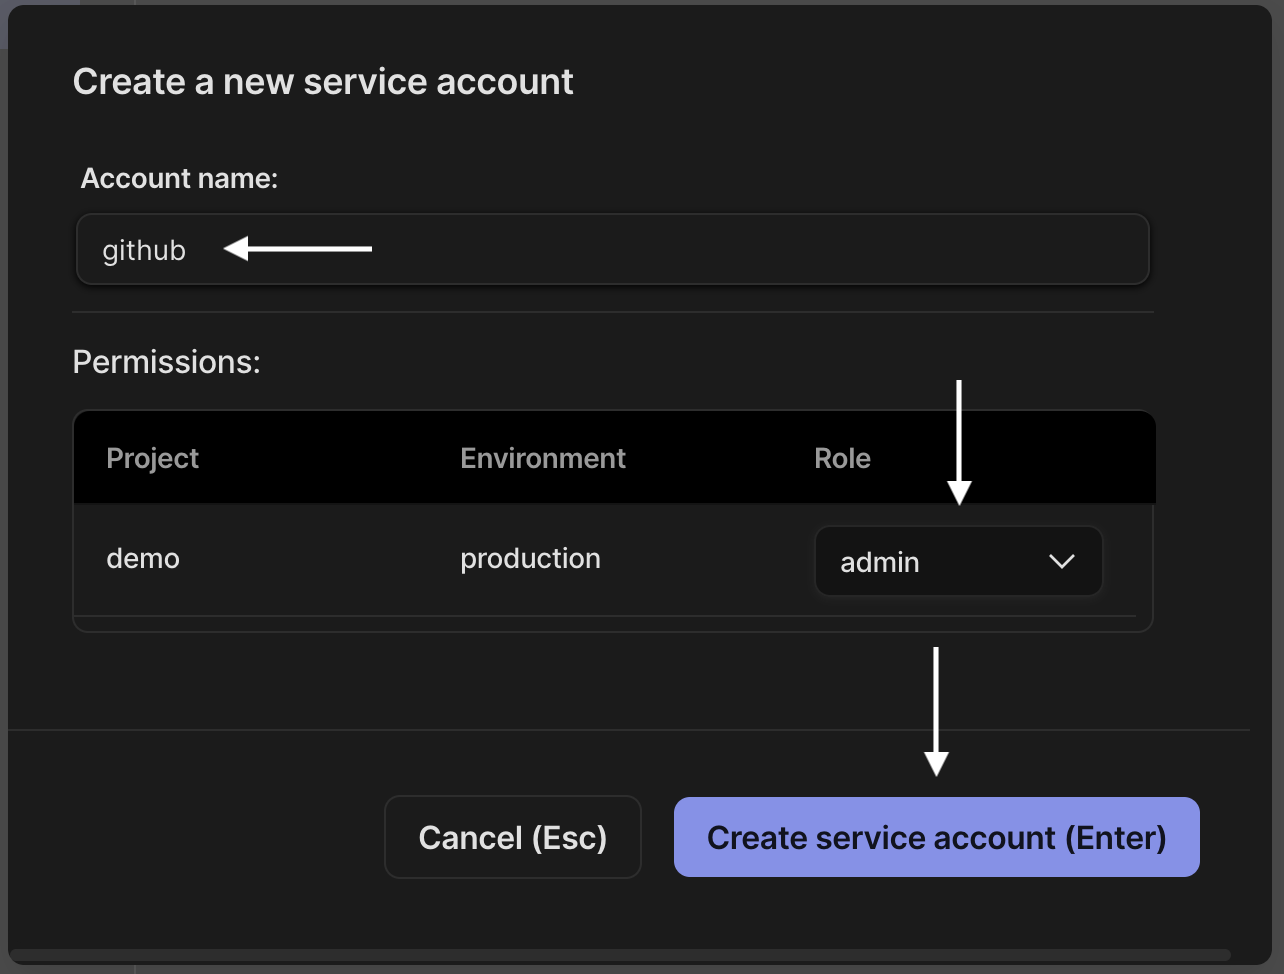
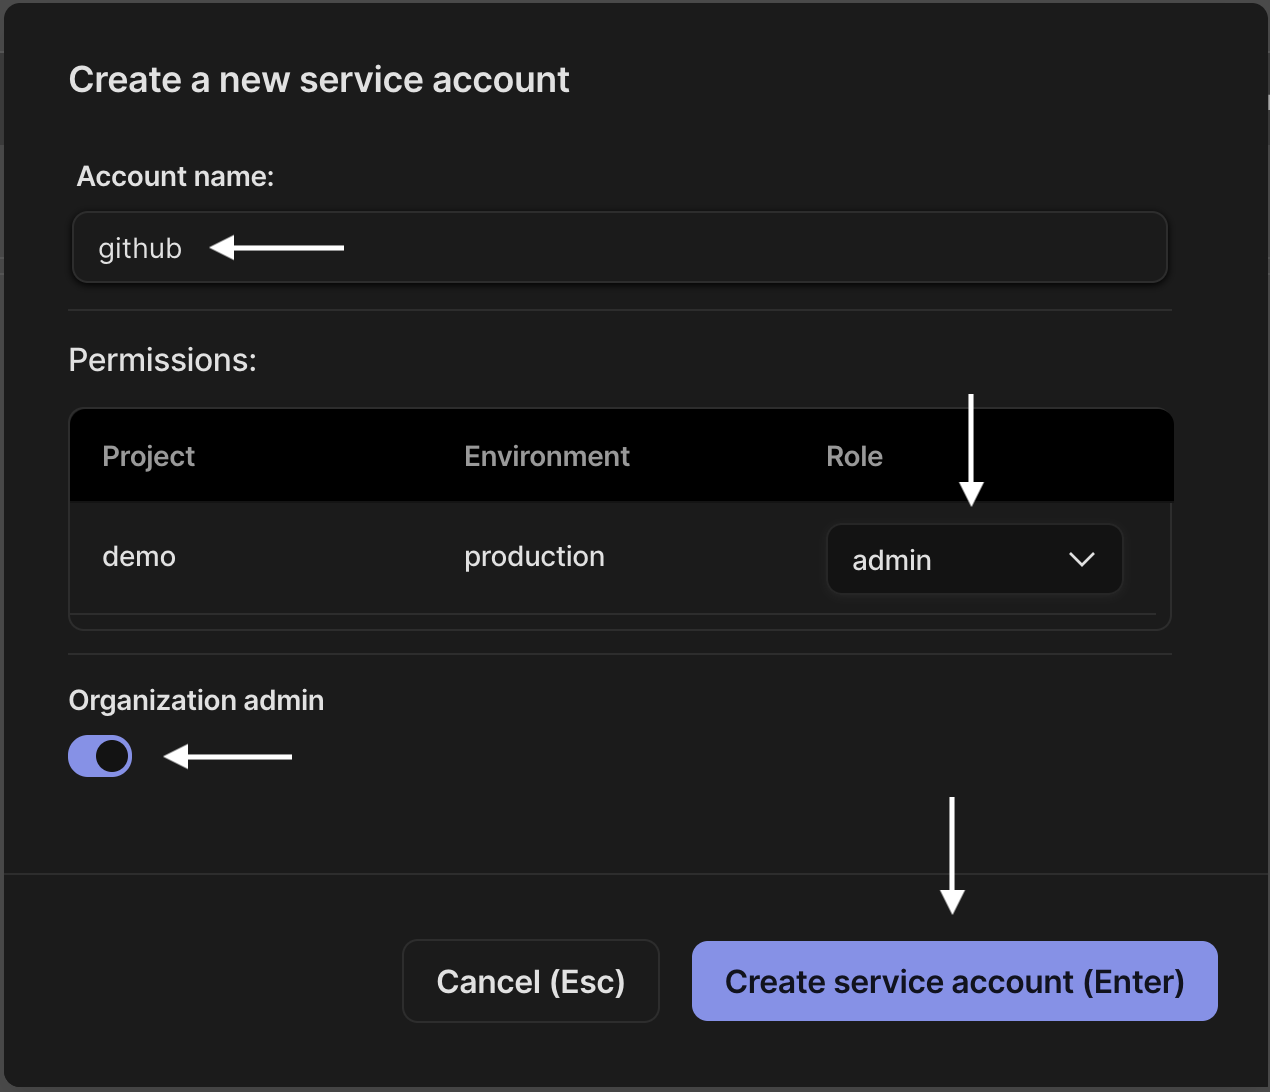
Changing the .gitinore and fixing the README to modify the step 3

diff --git a/README.md b/README.md
@@ -35,7 +35,7 @@ A Success/Error message containing the Based CLI output.
   
 <img src="https://raw.githubusercontent.com/atelier-saulx/based-deploy/main/steps/step2.png" width="800" />
 
-* Give a name to your service account and select a role to your project. You can choose between 'admin' and 'viewer' and then click on 'Create service account'.
+* Give a name to your service account and select a role to your project. You can choose between 'admin' and 'viewer' (in this case, you need to set 'admin'), check the option 'Organization admin', and then click on 'Create service account'.
 
 <img src="https://raw.githubusercontent.com/atelier-saulx/based-deploy/main/steps/step3.png" width="500" />
 
